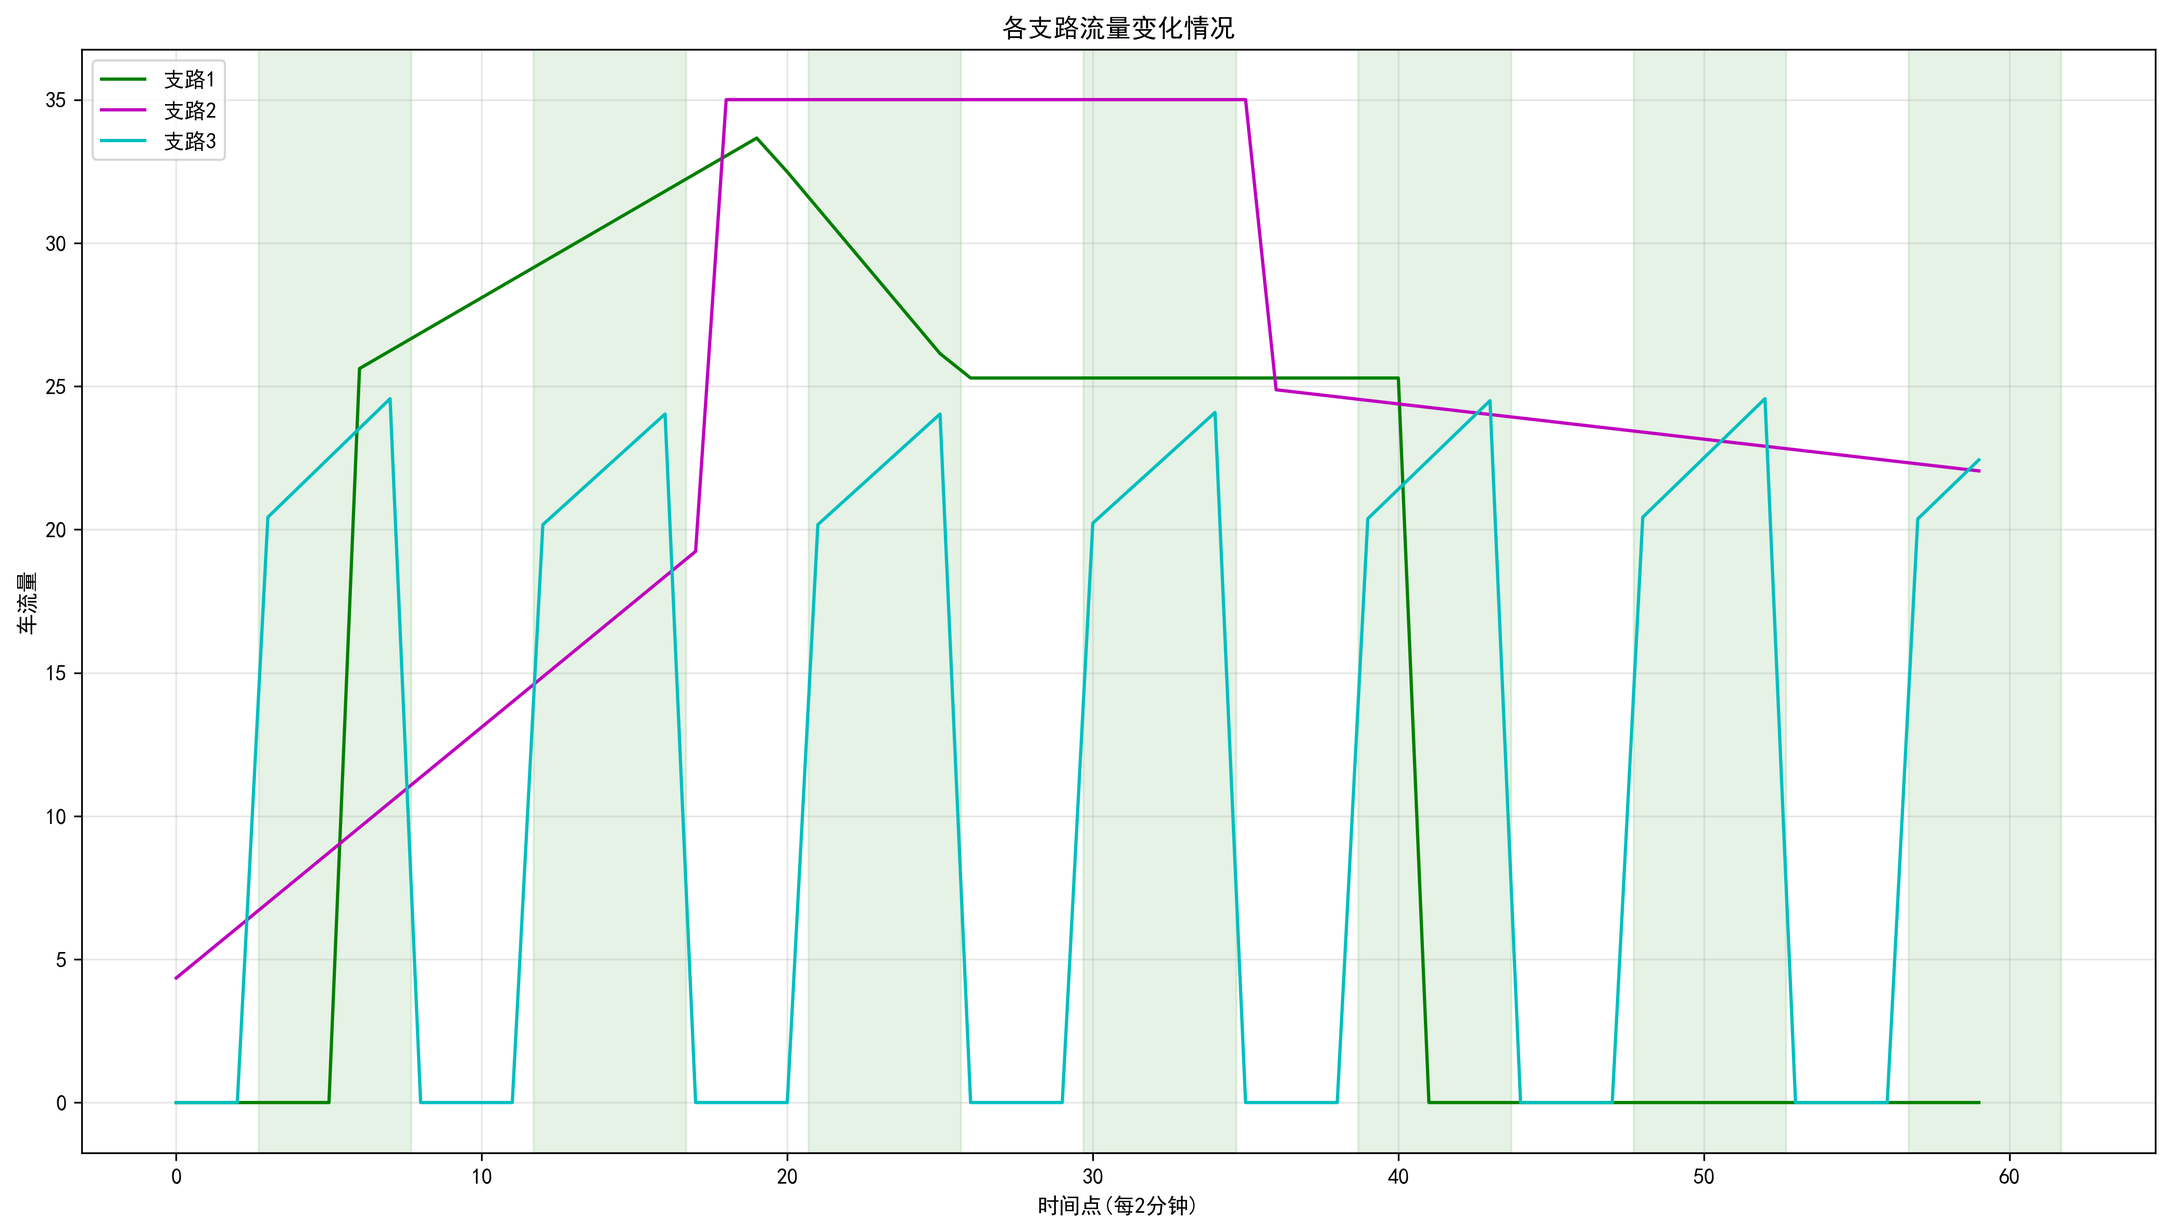
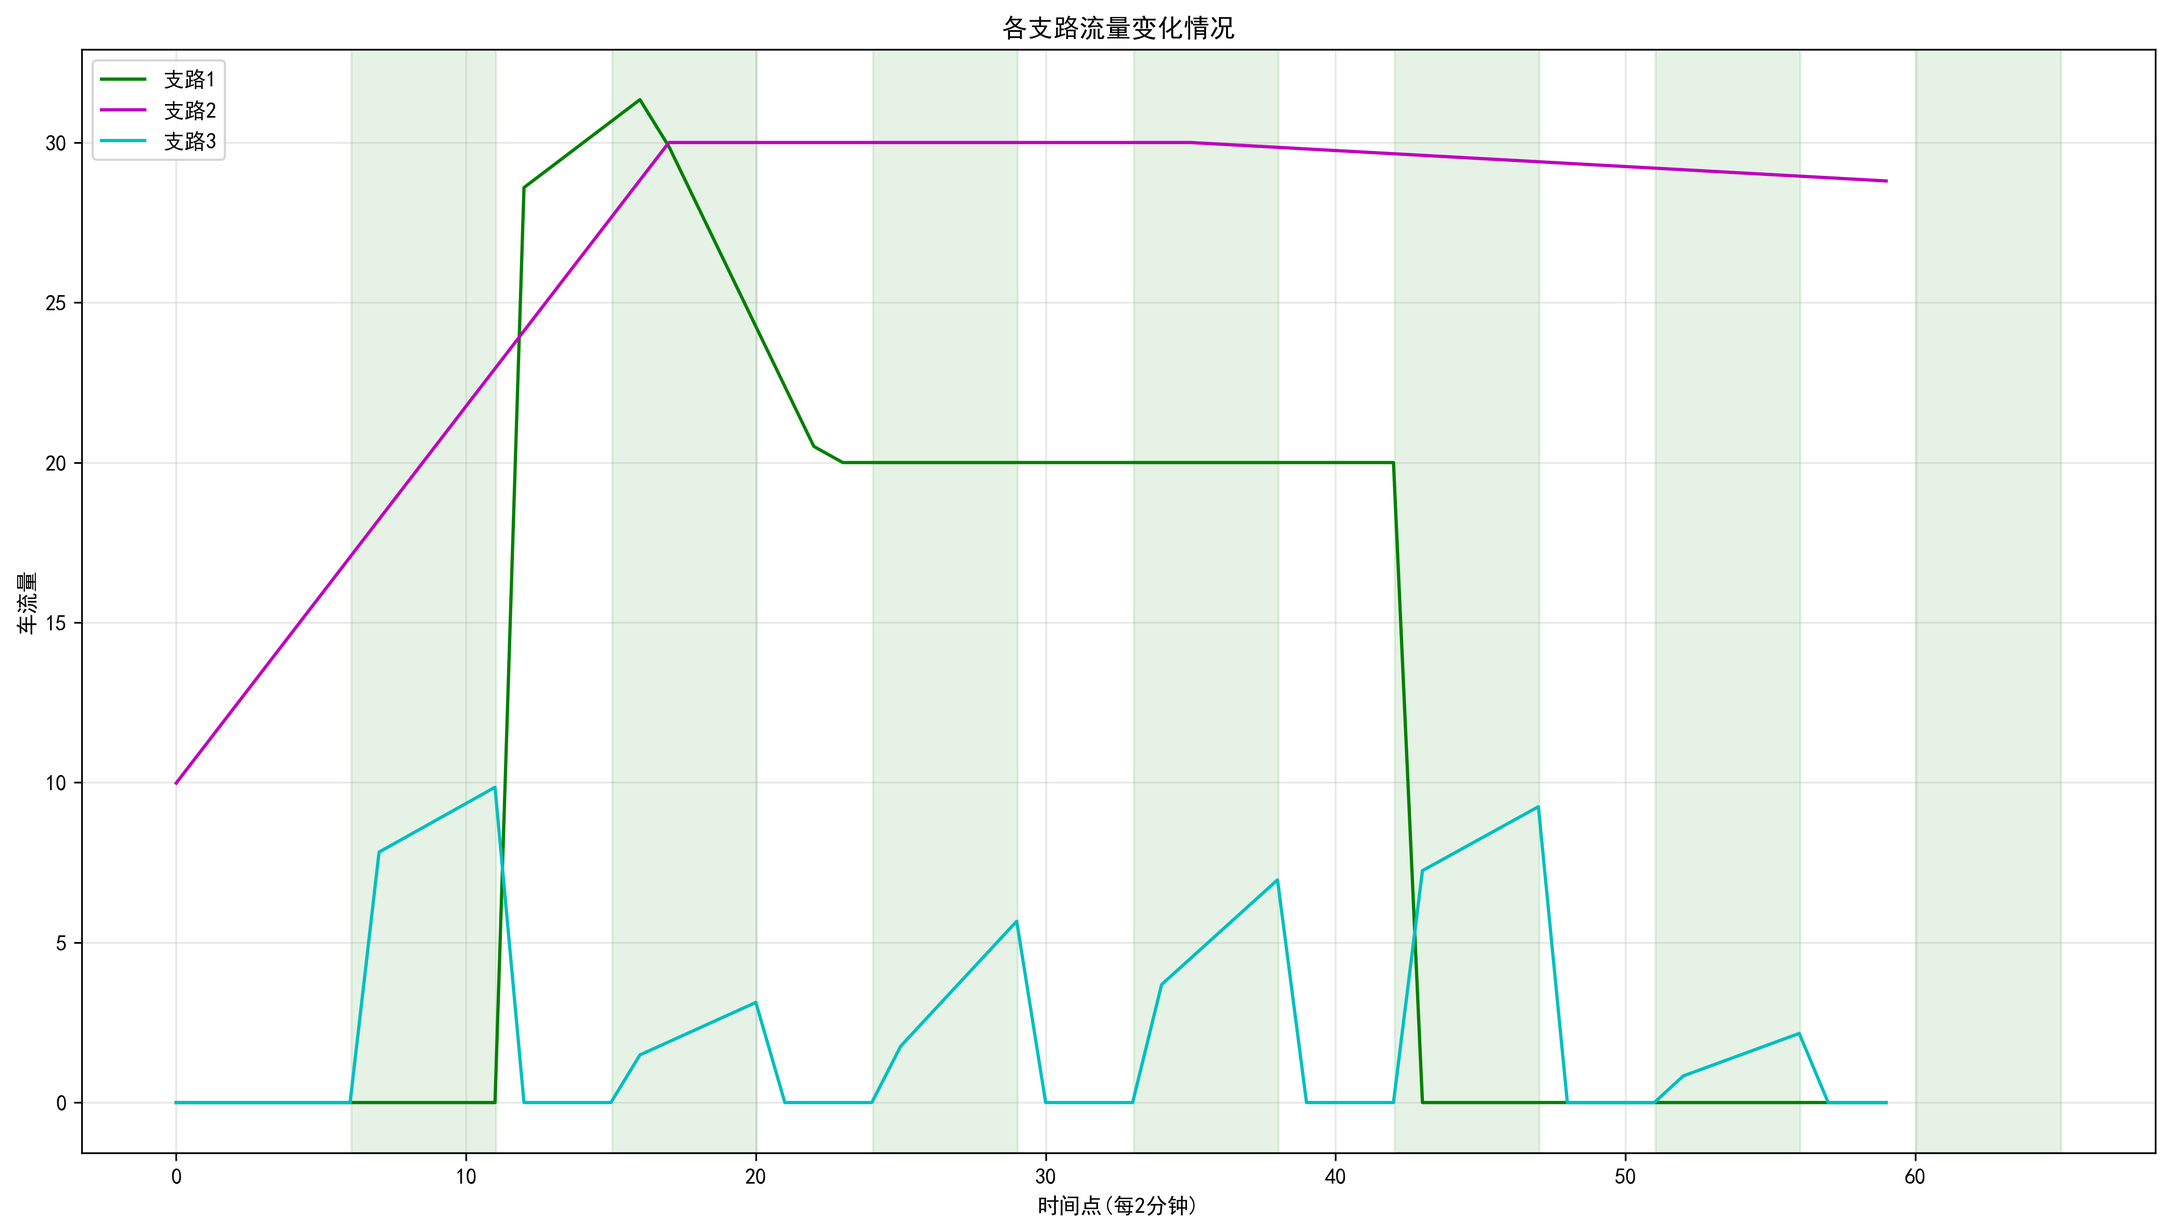
refactor(51MCM): 优化交通流量模型并调整参数
- 移除支路1和2的延迟处理，直接使用原始流量
- 添加加权Huber损失，对不同时间段赋予不同权重
- 增加全局平滑性约束，减少预测结果的波动
- 调整支路3流量模型，适应绿灯周期变化
- 扩大参数搜索范围，提高优化精度
- 尝试多次优化，选择最佳结果
- 更新模型评估方法，采用加权Huber损失

Changed region(s): [[0.0935, 0.0309, 0.8417, 0.9569], [0.8729, 0.0617, 0.9041, 0.926]]

diff --git a/51MCM/p4.py b/51MCM/p4.py
@@ -18,7 +18,7 @@ class TrafficAnalysisSystem:
         self.RED_DURATION = 4
         self.GREEN_DURATION = 5
         self.CYCLE_LENGTH = self.RED_DURATION + self.GREEN_DURATION
-        # FIRST_GREEN和TRAVEL_DELAY将作为可优化参数，在optimize_model中设置
+        # FIRST_GREEN将作为可优化参数，在optimize_model中设置
         # 这里只是初始化变量，但不赋初始值
 
     def _load_dataset(self):
@@ -54,14 +54,13 @@ class TrafficAnalysisSystem:
     def _calculate_branch_flows(self, t_array, params):
         """计算各支路流量"""
         # 参数解包
-        # 最后两个参数为FIRST_GREEN和TRAVEL_DELAY
-        self.FIRST_GREEN = params[-2]
-        self.TRAVEL_DELAY = params[-1]
+        # 最后一个参数为FIRST_GREEN
+        self.FIRST_GREEN = params[-1]
 
         # 其他参数解包
         a_params = params[:10]
         b_params = params[10:15]
-        c_params = params[15:-2]
+        c_params = params[15:-1]
 
         # 支路1流量计算
         flow1 = self._compute_flow1(t_array, a_params)
@@ -133,20 +132,9 @@ class TrafficAnalysisSystem:
         """计算主路流量"""
         f1, f2, f3 = self._calculate_branch_flows(t_array, params)
 
-        f1_delayed = np.zeros_like(t_array)
-        f2_delayed = np.zeros_like(t_array)
-
-        # 将TRAVEL_DELAY转换为整数用于索引
-        travel_delay_idx = int(self.TRAVEL_DELAY)
-
-        valid_idx = t_array >= self.TRAVEL_DELAY
-        f1_delayed[valid_idx] = f1[np.where(valid_idx)[0] - travel_delay_idx]
-        f2_delayed[valid_idx] = f2[np.where(valid_idx)[0] - travel_delay_idx]
-
-        f1_delayed[~valid_idx] = f1[0]
-        f2_delayed[~valid_idx] = f2[0]
-
-        return f1_delayed + f2_delayed + f3
+        # 移除支路1和2的延迟处理，直接使用原始流量
+        # 根据题目要求，不考虑行驶延迟
+        return f1 + f2 + f3
 
     def _huber_loss(self, errors, delta=1.0):
         """Huber损失函数（方法2：鲁棒性优化）"""
@@ -156,74 +144,171 @@ class TrafficAnalysisSystem:
         return 0.5 * quadratic ** 2 + delta * linear
 
     def _evaluate_model(self, params):
-        """评估模型性能（使用Huber损失）"""
+        """评估模型性能（使用加权Huber损失）"""
         predicted = self._calculate_main_flow(self.time_idx, params)
-        # 方法2：使用Huber损失代替MSE
-        error = np.mean(self._huber_loss(predicted - self.actual_flow, delta=1.0))
+        errors = predicted - self.actual_flow
+
+        # 使用加权Huber损失，对不同时间段赋予不同权重
+        # 创建时间段权重，高峰期权重更高
+        time_weights = np.ones_like(self.time_idx, dtype=float)
+        # 早高峰(7:20-8:00)权重增加
+        time_weights[(self.time_idx >= 10) & (self.time_idx <= 30)] = 1.5
+        # 晚高峰(8:00-8:40)权重增加
+        time_weights[(self.time_idx >= 30) & (self.time_idx <= 50)] = 1.5
+
+        # 计算加权Huber损失
+        weighted_errors = [time_weights[i] * self._huber_loss(errors[i], delta=1.5) for i in range(len(errors))]
+        error = np.mean(weighted_errors)
 
         # 约束条件处理
         penalty = self._compute_penalty(params)
 
-        return error + penalty
+        # 添加全局平滑性约束
+        predicted_diff = np.abs(np.diff(predicted))
+        smoothness_penalty = 50 * np.sum(np.where(predicted_diff > 10, predicted_diff - 10, 0))
+
+        return error + penalty + smoothness_penalty
 
     def _compute_penalty(self, params):
         """计算约束惩罚项"""
         f1, f2, f3 = self._calculate_branch_flows(self.time_idx, params)
         penalty = 0
 
-        # 非负约束
-        penalty += 1000 * (np.sum(np.abs(f1[f1 < 0])) +
+        # 非负约束 - 增加惩罚权重
+        penalty += 2000 * (np.sum(np.abs(f1[f1 < 0])) +
                            np.sum(np.abs(f2[f2 < 0])) +
                            np.sum(np.abs(f3[f3 < 0])))
-        # 支路2二阶差分惩罚（平滑性）
-        f2_diff2 = np.abs(np.diff(f2, n=2))
-        penalty += 100 * np.sum(f2_diff2)
 
-        # 连续性约束
+        # 支路1流量特征约束 - 确保符合"无车流量→线性增长→稳定→线性减少至无车流量"的趋势
         a1, a2, a3, a4, a5, a6, brk1, brk2, brk3, brk4 = params[:10]
+        # 确保a1为正（线性增长）
+        penalty += 1000 * max(0, -a1)
+        # 确保a3为负（线性减少）
+        penalty += 1000 * max(0, a3)
+        # 确保a6为负（线性减少至无车流量）
+        penalty += 1000 * max(0, a6)
+
+        # 支路2流量特征约束 - 确保在特定时间段内线性增长、稳定和线性减少
         b1, b2, b3, b4, b5 = params[10:15]
+        # 确保b1为正（线性增长）
+        penalty += 1000 * max(0, -b1)
+        # 确保b4为负（线性减少）
+        penalty += 1000 * max(0, b4)
 
+        # 支路2二阶差分惩罚（平滑性）- 增加权重
+        f2_diff2 = np.abs(np.diff(f2, n=2))
+        penalty += 200 * np.sum(f2_diff2)
+
+        # 支路3流量特征约束 - 确保在绿灯时段有合理的流量变化
+        c_params = params[15:-1]
+        for i in range(7):
+            slope, intercept = c_params[2*i], c_params[2*i+1]
+            # 确保截距非负
+            penalty += 500 * max(0, -intercept)
+            # 限制斜率变化范围
+            penalty += 100 * max(0, abs(slope) - 2.5)
+
+        # 连续性约束 - 增加权重
         continuity_errors = [
-            abs(a1 * (brk2 - brk1) + a2 - a4),
-            abs(a3 * (brk3 - brk2) + a4 - a5),
-            abs(a5 - a6 * 0),
-            abs(b1 * 35 + b2 - b3),
-            abs(b3 - b5)
+            abs(a1 * (brk2 - brk1) + a2 - a4),  # 支路1第一段与第二段的连续性
+            abs(a3 * (brk3 - brk2) + a4 - a5),  # 支路1第二段与第三段的连续性
+            abs(a5 - a6 * 0),                   # 支路1第三段与第四段的连续性
+            abs(b1 * 17 + b2 - b3),             # 支路2第一段与第二段的连续性
+            abs(b3 - b4 * 0 - b5)               # 支路2第二段与第三段的连续性
         ]
+        penalty += 1500 * sum(continuity_errors)
 
-        penalty += 1000 * sum(continuity_errors)
+        # 转折点顺序约束
+        order_errors = [
+            max(0, brk1 - brk2),  # 确保 brk1 < brk2
+            max(0, brk2 - brk3),  # 确保 brk2 < brk3
+            max(0, brk3 - brk4)   # 确保 brk3 < brk4
+        ]
+        penalty += 2000 * sum(order_errors)
+
         return penalty
 
     def optimize_model(self):
         """优化模型参数"""
-        # 初始参数设置，添加FIRST_GREEN和TRAVEL_DELAY作为可优化参数
+        # 初始参数设置，添加FIRST_GREEN作为可优化参数
         initial_guess = [
             2.0, 30.0, -1.0, 20.0, 30.0, -1.0, 7.0, 20.0, 30.0, 42.0,
             0.5, 0.0, 40.0, -1.0, 20.0,
             1.0, 20.0, 1.0, 20.0, 1.0, 20.0, 1.0, 20.0, 1.0, 20.0, 1.0, 20.0, 1.0, 20.0,
-            3.0, 1.0  # FIRST_GREEN和TRAVEL_DELAY的初始值
+            3.0  # FIRST_GREEN的初始值
         ]
 
+        # 扩大参数边界范围，提高搜索精度
         param_bounds = [
-            (0.5, 2.0), (25.0, 40.0), (-5.0, -0.1), (25.0, 35.0), (25.0, 35.0), (-5.0, -0.1),
-            (5.0, 10.0), (19.0, 21.0), (25.0, 35.0), (40.0, 45.0),
-            (0.1, 2.0), (0.0, 5.0), (35.0, 45.0), (-2.0, -0.1), (15.0, 25.0),
-            (0.0, 2.0), (0.0, 30.0), (0.0, 2.0), (0.0, 30.0),(0.0, 2.0), (0.0, 30.0), (0.0, 2.0), (0.0, 30.0),
-            (0.0, 2.0), (0.0, 30.0), (0.0, 2.0), (0.0, 30.0),(0.0, 2.0), (0.0, 30.0),
-            (2.0, 5.0), (0.5, 2.0)  # FIRST_GREEN和TRAVEL_DELAY的边界
+            # 支路1参数边界 - 扩大搜索范围
+            (0.3, 3.0), (20.0, 45.0), (-6.0, -0.05), (20.0, 40.0), (20.0, 40.0), (-6.0, -0.05),
+            (3.0, 12.0), (15.0, 25.0), (20.0, 40.0), (35.0, 50.0),
+            # 支路2参数边界 - 扩大搜索范围
+            (0.05, 3.0), (0.0, 10.0), (30.0, 50.0), (-3.0, -0.05), (10.0, 30.0),
+            # 支路3参数边界 - 调整以适应绿灯周期
+            (0.0, 3.0), (0.0, 40.0), (0.0, 3.0), (0.0, 40.0), (0.0, 3.0), (0.0, 40.0),
+            (0.0, 3.0), (0.0, 40.0), (0.0, 3.0), (0.0, 40.0), (0.0, 3.0), (0.0, 40.0),
+            (0.0, 3.0), (0.0, 40.0),
+            # FIRST_GREEN的边界 - 扩大搜索范围
+            (0.0, 8.0)
         ]
 
-        optimization_result = minimize(
+        # 尝试多次优化，选择最佳结果
+        best_error = float('inf')
+        best_params = None
+        best_result = None
+
+        # 使用不同的初始点和优化方法进行多次优化
+        for attempt in range(5):  # 增加尝试次数
+            # 在初始猜测附近随机扰动
+            perturbed_guess = np.array(initial_guess) * (1 + 0.15 * np.random.randn(len(initial_guess)))
+
+            # 确保扰动后的参数仍在边界内
+            for i, (lb, ub) in enumerate(param_bounds):
+                perturbed_guess[i] = max(lb, min(ub, perturbed_guess[i]))
+
+            # 选择不同的优化方法
+            if attempt % 2 == 0:
+                method = 'L-BFGS-B'
+                options = {'maxiter': 1000, 'gtol': 1e-6}
+            else:
+                method = 'SLSQP'
+                options = {'maxiter': 1000, 'ftol': 1e-6}
+
+            # 执行优化
+            optimization_result = minimize(
+                self._evaluate_model,
+                perturbed_guess,
+                method=method,
+                bounds=param_bounds,
+                options=options
+            )
+
+            # 更新最佳结果
+            if optimization_result.fun < best_error:
+                best_error = optimization_result.fun
+                best_params = optimization_result.x
+                best_result = optimization_result
+
+        # 使用最佳参数进行一次最终优化
+        final_result = minimize(
             self._evaluate_model,
-            initial_guess,
+            best_params,
             method='L-BFGS-B',
-            bounds=param_bounds
+            bounds=param_bounds,
+            options={'maxiter': 2000, 'gtol': 1e-8}  # 增加迭代次数和精度
         )
 
-        self.optimal_params = optimization_result.x
+        if final_result.fun < best_error:
+            self.optimal_params = final_result.x
+        else:
+            self.optimal_params = best_params
+
+        # 计算最终的预测流量和误差
         self.predicted_flow = self._calculate_main_flow(self.time_idx, self.optimal_params)
         self.model_error = np.sqrt(np.mean((self.predicted_flow - self.actual_flow) ** 2))
 
+        # 计算各支路流量
         f1, f2, f3 = self._calculate_branch_flows(self.time_idx, self.optimal_params)
         self.branch_flows = (f1, f2, f3)
 
@@ -273,7 +358,7 @@ class TrafficAnalysisSystem:
         """生成分析报告"""
         a_params = self.optimal_params[:10]
         b_params = self.optimal_params[10:15]
-        c_params = self.optimal_params[15:-2]  # 排除最后两个参数(FIRST_GREEN和TRAVEL_DELAY)
+        c_params = self.optimal_params[15:-1]  # 排除最后一个参数(FIRST_GREEN)
 
         # 计算特定时间点流量
         t1, t2 = 15, 45  # 7:30和8:30对应的时间索引
@@ -306,10 +391,9 @@ class TrafficAnalysisSystem:
             f.write(f"| 8:00-8:30 | {segment_errors[2]:.4f} |\n")
             f.write(f"| 8:30-8:58 | {segment_errors[3]:.4f} |\n\n")
 
-            # 优化后的信号灯和延迟参数
+            # 优化后的信号灯参数
             f.write("## 【优化后的系统参数】\n\n")
-            f.write(f"第一个绿灯开始时间: {self.optimal_params[-2]:.4f}\n")
-            f.write(f"支路1和支路2的行驶延迟: {self.optimal_params[-1]:.4f}\n\n")
+            f.write(f"第一个绿灯开始时间: {self.optimal_params[-1]:.4f}\n\n")
 
             f.write("## 【支路1模型参数】\n\n")
             f.write(f"增长阶段斜率: {a_params[0]:.4f}\n")

diff --git a/51MCM/P4/交通流量分析报告4.md b/51MCM/P4/交通流量分析报告4.md
@@ -2,66 +2,65 @@
 
 ## 【模型误差评估】
 
-总体RMSE误差: 14.0643
+总体RMSE误差: 17.1710
 
 各时间段误差:
 
 | 时间段 | RMSE误差 |
 |--------|----------|
-| 7:00-7:30 | 14.3800 |
-| 7:30-8:00 | 14.2448 |
-| 8:00-8:30 | 10.3571 |
-| 8:30-8:58 | 16.4712 |
+| 7:00-7:30 | 14.2375 |
+| 7:30-8:00 | 16.5513 |
+| 8:00-8:30 | 19.3184 |
+| 8:30-8:58 | 18.7063 |
 
 ## 【优化后的系统参数】
 
-第一个绿灯开始时间: 2.6963
-支路1和支路2的行驶延迟: 1.0000
+第一个绿灯开始时间: 6.0410
 
 ## 【支路1模型参数】
 
-增长阶段斜率: 0.6188
-初始值: 25.0000
-下降阶段斜率1: -1.2683
-稳定值: 25.2884
-下降阶段斜率2: -1.0000
-转折点: 5.0, 19.0, 25.7, 40.1
+增长阶段斜率: 0.6868
+初始值: 28.0103
+下降阶段斜率1: -1.8742
+稳定值: 20.0000
+下降阶段斜率2: -1.0183
+转折点: 11.2, 16.2, 22.3, 42.3
 
 ## 【支路2模型参数】
 
-增长斜率: 0.8759
-截距: 4.3465
-稳定值: 35.0043
-下降斜率: -0.1231
-终值: 25.0000
+增长斜率: 1.1775
+截距: 9.9829
+稳定值: 30.0007
+下降斜率: -0.0500
+终值: 30.0000
 转折点: 35.0, 47.0
 
 ## 【支路3模型参数】
 
 支路3在红灯时段流量为0，在绿灯时段呈现线性变化
-绿灯周期1的斜率: 1.0339, 截距: 20.1172
-绿灯周期2的斜率: 0.9655, 截距: 19.8770
-绿灯周期3的斜率: 0.9655, 截距: 19.8770
-绿灯周期4的斜率: 0.9657, 截距: 19.9299
-绿灯周期5的斜率: 1.0303, 截距: 20.0650
-绿灯周期6的斜率: 1.0339, 截距: 20.1172
-绿灯周期7的斜率: 1.0298, 截距: 20.0579
+绿灯周期1的斜率: 0.5066, 截距: 7.3404
+绿灯周期2的斜率: 0.4103, 截距: 1.0945
+绿灯周期3的斜率: 0.9754, 截距: 0.8279
+绿灯周期4的斜率: 0.8179, 截距: 2.9023
+绿灯周期5的斜率: 0.4997, 截距: 6.7674
+绿灯周期6的斜率: 0.3321, 截距: 0.5131
+绿灯周期7的斜率: 0.3096, 截距: 3.9290
 
 ## 【支路1流量模型表达式】
 
-$f_1(t) = \begin{cases} 0, & t < 5.0 \ 0.6188 \cdot (t-5.0) + 25.0000, & 5.0 \leq t < 19.0 \\ -1.2683 \cdot (t-19.0) + 33.6918, & 19.0 \leq t < 25.7 \\ 25.2884, & 25.7 \leq t < 40.1 \\ -1.0000 \cdot (t-40.1), & t \geq 40.1 \end{cases}$
+$f_1(t) = \begin{cases} 0, & t < 11.2 \ 0.6868 \cdot (t-11.2) + 28.0103, & 11.2 \leq t < 16.2 \\ -1.8742 \cdot (t-16.2) + 31.4502, & 16.2 \leq t < 22.3 \\ 20.0000, & 22.3 \leq t < 42.3 \\ -1.0183 \cdot (t-42.3), & t \geq 42.3 \end{cases}$
 
 ## 【支路2流量模型表达式】
 
-$f_2(t) = \begin{cases} 0.8759 \cdot t + 4.3465, & t \leq 35.0 \\ 35.0043, & 35.0 < t \leq 47.0 \\ -0.1231 \cdot (t-47.0) + 25.0000, & t > 47.0 \end{cases}$
+$f_2(t) = \begin{cases} 1.1775 \cdot t + 9.9829, & t \leq 35.0 \\ 30.0007, & 35.0 < t \leq 47.0 \\ -0.0500 \cdot (t-47.0) + 30.0000, & t > 47.0 \end{cases}$
 
 ## 【支路3流量模型表达式】
 
-$f_3(t) = \begin{cases} 1.0339 \cdot (t-2.6963477427911973) + 20.1172, & t \in [2.6963477427911973, 7.696347742791197) \text{ 且为绿灯时段} \\ 0.9655 \cdot (t-11.696347742791197) + 19.8770, & t \in [11.696347742791197, 16.696347742791197) \text{ 且为绿灯时段} \\ 0.9655 \cdot (t-20.696347742791197) + 19.8770, & t \in [20.696347742791197, 25.696347742791197) \text{ 且为绿灯时段} \\ 0.9657 \cdot (t-29.696347742791197) + 19.9299, & t \in [29.696347742791197, 34.6963477427912) \text{ 且为绿灯时段} \\ 1.0303 \cdot (t-38.6963477427912) + 20.0650, & t \in [38.6963477427912, 43.6963477427912) \text{ 且为绿灯时段} \\ 1.0339 \cdot (t-47.6963477427912) + 20.1172, & t \in [47.6963477427912, 52.6963477427912) \text{ 且为绿灯时段} \\ 1.0298 \cdot (t-56.6963477427912) + 20.0579, & t \in [56.6963477427912, 61.6963477427912) \text{ 且为绿灯时段} \\ 0, & \text{其他时段（红灯）} \end{cases}$
+$f_3(t) = \begin{cases} 0.5066 \cdot (t-6.0409915220481425) + 7.3404, & t \in [6.0409915220481425, 11.040991522048142) \text{ 且为绿灯时段} \\ 0.4103 \cdot (t-15.040991522048142) + 1.0945, & t \in [15.040991522048142, 20.04099152204814) \text{ 且为绿灯时段} \\ 0.9754 \cdot (t-24.04099152204814) + 0.8279, & t \in [24.04099152204814, 29.04099152204814) \text{ 且为绿灯时段} \\ 0.8179 \cdot (t-33.040991522048145) + 2.9023, & t \in [33.040991522048145, 38.040991522048145) \text{ 且为绿灯时段} \\ 0.4997 \cdot (t-42.040991522048145) + 6.7674, & t \in [42.040991522048145, 47.040991522048145) \text{ 且为绿灯时段} \\ 0.3321 \cdot (t-51.040991522048145) + 0.5131, & t \in [51.040991522048145, 56.040991522048145) \text{ 且为绿灯时段} \\ 0.3096 \cdot (t-60.040991522048145) + 3.9290, & t \in [60.040991522048145, 65.04099152204815) \text{ 且为绿灯时段} \\ 0, & \text{其他时段（红灯）} \end{cases}$
 
 ## 【关键时间点流量】
 
 | 时间点 | 支路1 | 支路2 | 支路3 | 主路4(预测) | 主路4(实际) |
 |--------|-------|-------|-------|------------|------------|
-| 7:30 | 31.19 | 17.49 | 23.07 |    71.07 |    50.82 |
-| 8:30 |  0.00 | 23.77 |  0.00 |    23.00 |    34.49 |
+| 7:30 | 30.65 | 27.65 |  0.00 |    58.30 |    50.82 |
+| 8:30 |  0.00 | 29.50 |  8.25 |    37.75 |    34.49 |
